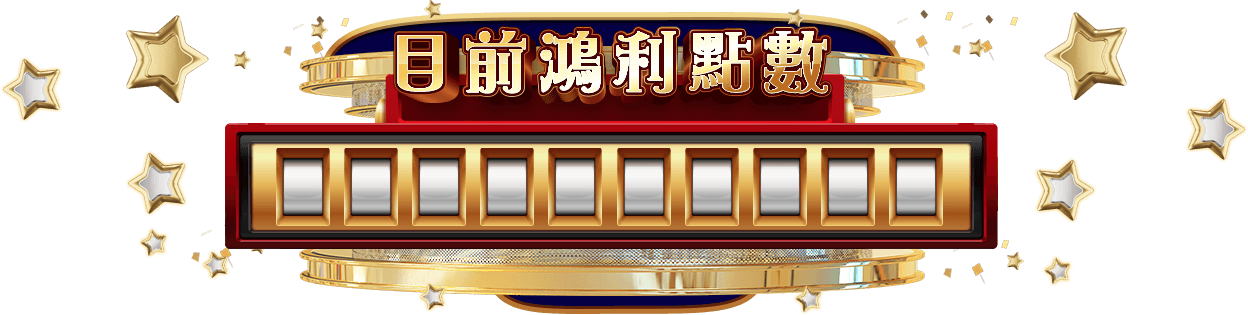
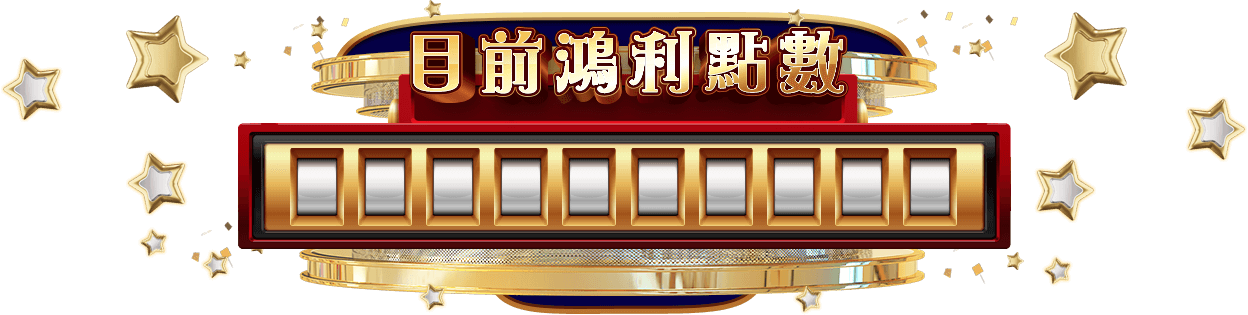
111-0624-2

Changed region(s): [[0.1562, 0.0286, 0.8125, 0.8]]

diff --git a/css/style.css b/css/style.css
@@ -86,6 +86,14 @@ main {
   background: url("../images/num_gold.png") no-repeat;
 }
 
+.infoWrap .imgBox li.empty {
+  background: url("../images/info_num_trans.png") no-repeat;
+}
+
+.infoWrap .imgBox li {
+  background: url("../images/info_num_blue.png") no-repeat;
+}
+
 .info_BG {
   background: url("../images/info_BG.png") no-repeat;
   background-size: cover;
@@ -1710,6 +1718,84 @@ html body .infoWrap article .imgBox {
   height: auto;
   font-size: 0;
   margin: 0 auto 15px;
+  position: relative;
+}
+html body .infoWrap article .imgBox ul {
+  width: 774px;
+  height: 44px;
+  position: absolute;
+  bottom: 106px;
+  left: 50%;
+  -webkit-transform: translateX(-50%);
+          transform: translateX(-50%);
+  display: -webkit-box;
+  display: -ms-flexbox;
+  display: flex;
+  -webkit-box-orient: horizontal;
+  -webkit-box-direction: reverse;
+      -ms-flex-direction: row-reverse;
+          flex-direction: row-reverse;
+  padding-right: 65px;
+}
+html body .infoWrap article .imgBox ul li {
+  width: 31px;
+  height: 100%;
+  margin-left: 37px;
+}
+html body .infoWrap article .imgBox ul li:nth-of-type(5) {
+  margin-left: 38px;
+}
+html body .infoWrap article .imgBox ul li:last-child {
+  margin: 0;
+}
+html body .infoWrap article .imgBox ul li.empty {
+  background-position-y: 90%;
+}
+html body .infoWrap article .imgBox ul li.num_1 {
+  background-position-y: 0;
+}
+html body .infoWrap article .imgBox ul li.num_2 {
+  background-position-y: 10%;
+}
+html body .infoWrap article .imgBox ul li.num_3 {
+  background-position-y: 20%;
+}
+html body .infoWrap article .imgBox ul li.num_4 {
+  background-position-y: 30%;
+}
+html body .infoWrap article .imgBox ul li.num_5 {
+  background-position-y: 40%;
+}
+html body .infoWrap article .imgBox ul li.num_6 {
+  background-position-y: 50%;
+}
+html body .infoWrap article .imgBox ul li.num_7 {
+  background-position-y: 60%;
+}
+html body .infoWrap article .imgBox ul li.num_8 {
+  background-position-y: 70%;
+}
+html body .infoWrap article .imgBox ul li.num_9 {
+  background-position-y: 80%;
+}
+html body .infoWrap article .imgBox ul li.anime_1 {
+  animation: numMove_1 3s ease-in-out 0s alternate-reverse infinite;
+}
+@-webkit-keyframes numMove_1 {
+  0% {
+    background-position-y: 0;
+  }
+  100% {
+    background-position-y: 70%;
+  }
+}
+@keyframes numMove_1 {
+  0% {
+    background-position-y: 0;
+  }
+  100% {
+    background-position-y: 70%;
+  }
 }
 html body .infoWrap article .content {
   width: 1000px;

diff --git a/scss/_info.scss b/scss/_info.scss
@@ -16,6 +16,77 @@
             height: auto;
             font-size: 0;
             margin: 0 auto 15px;
+            position: relative;
+
+            ul {
+              width: 774px;
+              height: 44px;
+              position: absolute;
+              bottom: 106px;
+              left: 50%;
+              transform: translateX(-50%);
+              display: flex;
+              flex-direction: row-reverse;
+              padding-right: 65px;
+
+              li {
+                width: 31px;
+                height: 100%;
+                margin-left: 37px;
+
+                &:nth-of-type(5) {
+                    margin-left: 38px;
+                }
+                &:last-child {
+                    margin: 0;
+                }
+
+                &.empty {
+                    background-position-y: 90%;
+                }
+                &.num_1 {
+                    background-position-y: 0;
+                }
+                &.num_2 {
+                    background-position-y: 10%;
+                }
+                &.num_3 {
+                    background-position-y: 20%;
+                }
+                &.num_4 {
+                    background-position-y: 30%;
+                }
+                &.num_5 {
+                    background-position-y: 40%;
+                }
+                &.num_6 {
+                    background-position-y: 50%;
+                }
+                &.num_7 {
+                    background-position-y: 60%;
+                }
+                &.num_8 {
+                    background-position-y: 70%;
+                }
+                &.num_9 {
+                    background-position-y: 80%;
+                }
+
+                &.anime_1 {
+                    animation: numMove_1 3s ease-in-out 0s alternate-reverse infinite;
+                }
+
+                @keyframes numMove_1 {
+                    0% {
+                        background-position-y: 0;
+                    }
+
+                    100% {
+                        background-position-y: 70%;
+                    }
+                }
+              }
+            }
         }
 
         //內容

diff --git a/html/information.html b/html/information.html
@@ -23,6 +23,18 @@
             <!--獎池圖-->
             <div class="imgBox">
                 <img src="../images/info_prize.png" alt="" class="info_prize">
+                <ul>
+                    <li class="num_1 anime_1"></li>
+                    <li class="num_3"></li>
+                    <li class="num_5"></li>
+                    <li class="num_7"></li>
+                    <li class="num_9"></li>
+                    <li class="num_2"></li>
+                    <li class="num_4"></li>
+                    <li class="num_6"></li>
+                    <li class="num_8"></li>
+                    <li class="empty"></li>
+                </ul>
             </div>
             <!--內容-->
             <section class="content">

diff --git a/scss/_imgStyle.scss b/scss/_imgStyle.scss
@@ -5,6 +5,12 @@
 .mainWrap .imgBox li {
     background: url('../images/num_gold.png') no-repeat;
 }
+.infoWrap .imgBox li.empty {
+    background: url('../images/info_num_trans.png') no-repeat;
+}
+.infoWrap .imgBox li {
+    background: url('../images/info_num_blue.png') no-repeat;
+}
 
 //info
 .info_BG {
